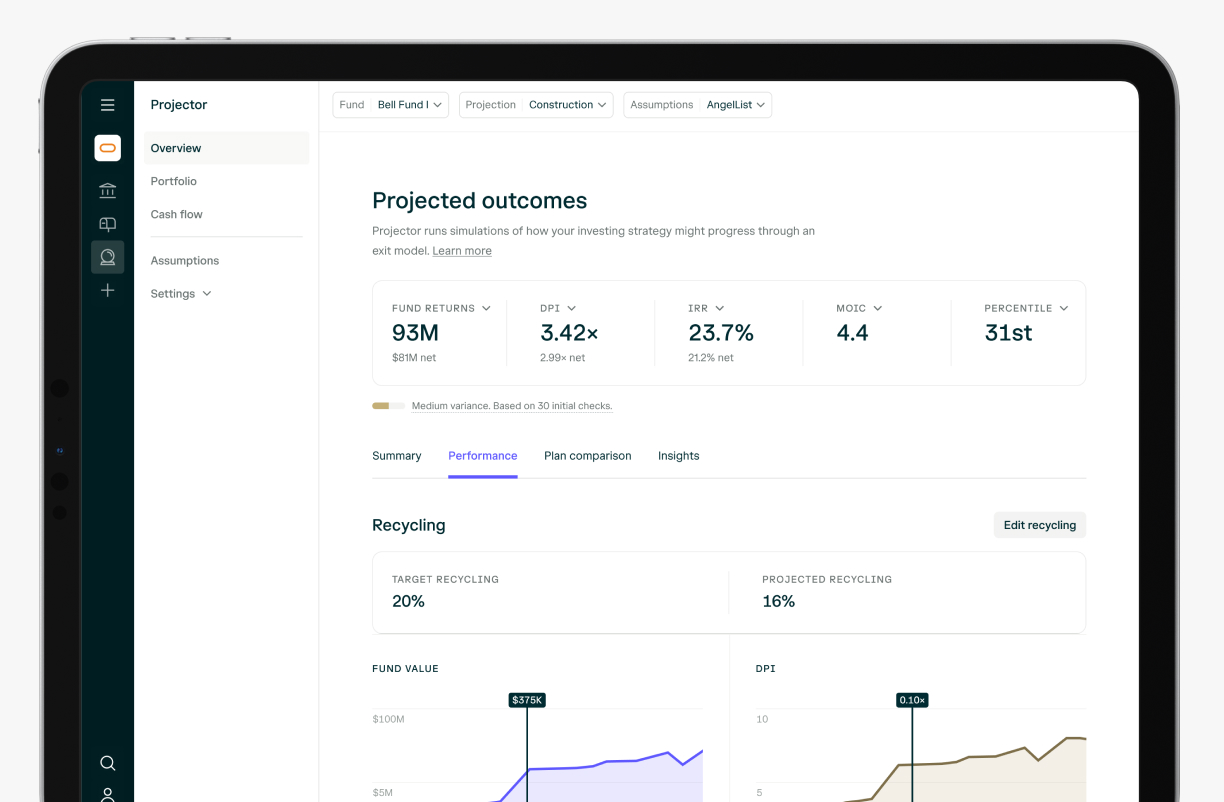
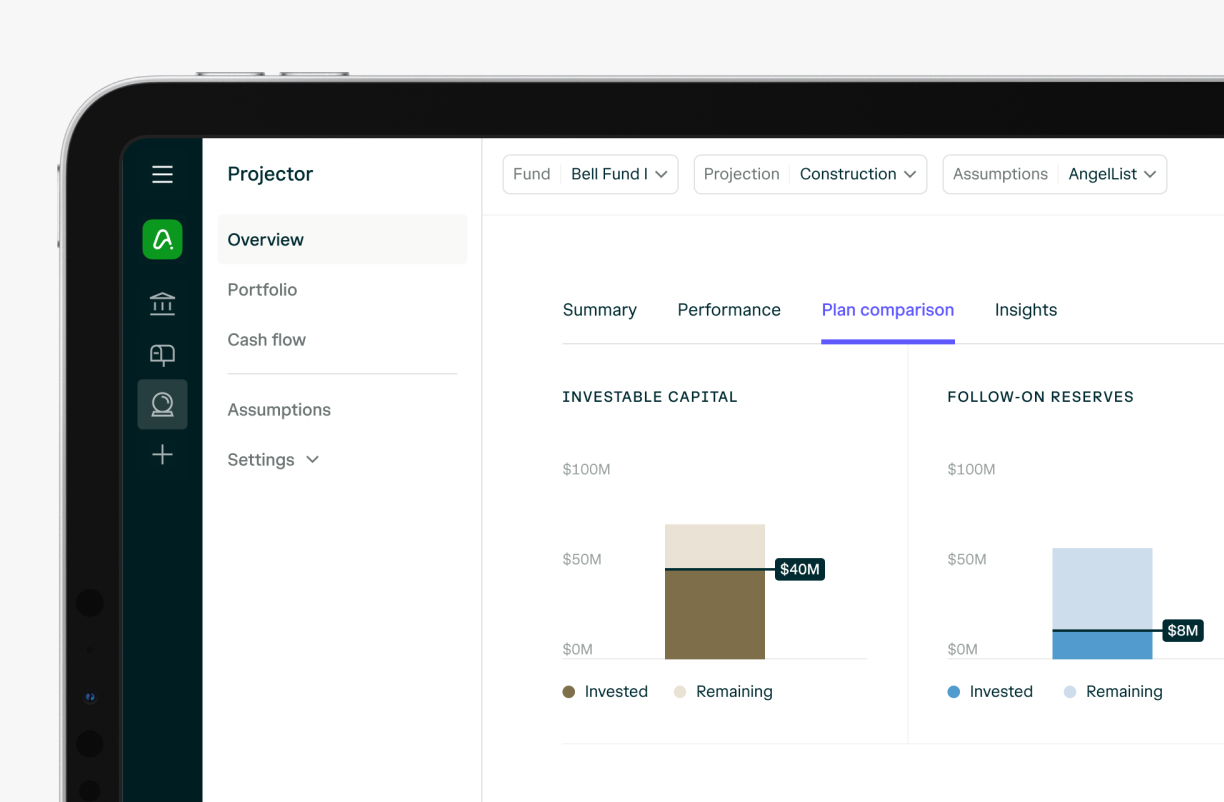
dark mode

diff --git a/about/index.html b/about/index.html
@@ -6,7 +6,7 @@ title: About
   <img src="/img/about/about@2x.png" loading="lazy">
   <div class="col-8 row">
     <span class="title">About</span>
-    <span class="subtitle">I'm a Principal Product Designer at Block currently designing <a href="https://proto.xyz/" target="_blank">Proto</a> and special projects across the company.<br><br>I also have a small studio where I build iOS apps that are rooted in simple, elegant interactions. I focus on building purpose-built tools that feel natural, simple, and delightful to use.<br><br>My work is grounded in clarity and high craft, pairing rigor in detail with a willingness to explore unbounded possibilities. I believe in design as a process of uncovering the essential: iterating through exploration, testing through prototypes, and shaping experiences that feel obvious once they exist.<br><br><a href="https://twitter.com/arjunmahanti" target="_blank">Twitter</a><br><br><a href="https://instagram.com/mahanti">Instagram</a><br><br><a href="mailto:arjun.mahanti@gmail.com">Email</a></span>
+    <span class="subtitle">I'm a Principal Product Designer at Block currently designing <a href="https://proto.xyz/" target="_blank">Proto</a> and special projects across the company.<br><br>I also have a small studio where I build purpose-built tools that feel natural, simple, and delightful to use.<br><br>My work is grounded in clarity and crafted with care. I believe in design as a process of uncovering the essential: iterating through exploration, testing through prototypes, and shaping experiences that feel obvious once they exist.<br><br><a href="https://twitter.com/arjunmahanti" target="_blank">Twitter</a>, <a href="https://instagram.com/mahanti" target="_blank">Instagram</a>, <a href="mailto:arjun.mahanti@gmail.com">Email</a></span>
   </div>
 </section>
 
